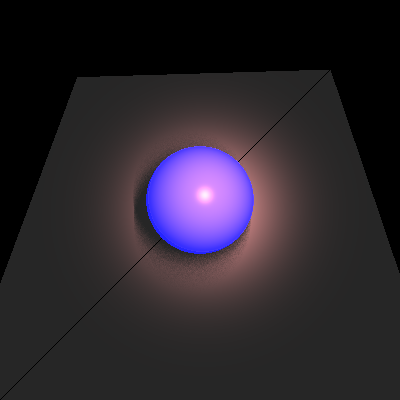
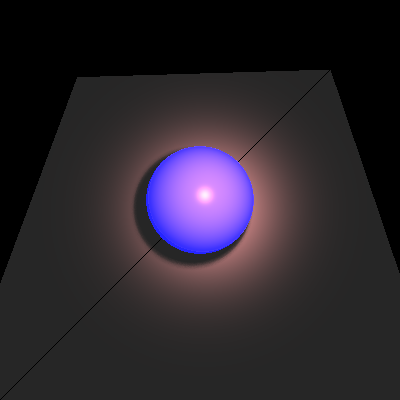
מיני פרויקט שלב  כמעט סופי1

Changed region(s): [[0.39, 0.57, 0.63, 0.69], [0.42, 0.36, 0.48, 0.39]]

diff --git a/src/renderer/ImproveSoftShadowRayTracer.java b/src/renderer/ImproveSoftShadowRayTracer.java
@@ -1,22 +1,28 @@
 package renderer;
 
 import elements.LightSource;
+
 import static geometries.Intersectable.GeoPoint;
+
 import primitives.Point3D;
 import primitives.Ray;
 import primitives.Vector;
 import scene.Scene;
+import elements.*;
+
+import java.time.LocalDateTime;
+import java.util.Random;
 
 import java.util.LinkedList;
 import java.util.List;
 
 import static primitives.Util.alignZero;
 
-public class ImproveSoftShadowRayTracer extends RayTracerBase{
+public class ImproveSoftShadowRayTracer extends RayTracerBase {
     /**
      * the radius size of the target circle through construct the beam of rays
      */
-    private double RADIUS = 10;
+    private double RADIUS = 4;
     /**
      * the distance size between the point and the target circle through construct the beam of rays
      */
@@ -24,9 +30,11 @@ public class ImproveSoftShadowRayTracer extends RayTracerBase{
     /**
      * the amount of rays in the beam
      */
-    private double AMOUNT_OF_RAYS = 50;
+    private double AMOUNT_OF_RAYS = 500;
+    private static Random random = new Random(LocalDateTime.now().getNano());
+
     /**
-     * consructor
+     * constructor
      *
      * @param scene
      */
@@ -66,43 +74,59 @@ public class ImproveSoftShadowRayTracer extends RayTracerBase{
         this.AMOUNT_OF_RAYS = AMOUNT_OF_RAYS;
         return this;
     }
+
+    /**
+     * this function calculate the average transparency of beam of shadow rays
+     *
+     * @param lightSource    the
+     * @param lightDirection
+     * @param n              normal of the point
+     * @param geoPoint
+     * @return average transparency
+     */
     @Override
     protected double transparency(LightSource lightSource, Vector lightDirection, Vector n, GeoPoint geoPoint) {
-        //We'll create the center point of the circle through which construct beam of rays
-        Point3D Pc = geoPoint.point.add(lightDirection.scale(DISTANCE));
-        //Vector lightDirection=l.scale(-1);
-        //create two vectors that orthogonal to refractedVector and they are also orthogonal
+        //if lightSource is DirectionalLight' there is no soft shadow
+        if (lightSource.getClass() == DirectionalLight.class) {
+            return super.transparency(lightSource, lightDirection, n, geoPoint);
+        }
+        //We'll create the center point of the circle through which construct beam of vectors
+        Point3D Pc = geoPoint.point.add(lightDirection.scale(lightSource.getDistance(geoPoint.point)));
+        //create two vectors that orthogonal to lightDirection and they are also orthogonal
+        //these vectors represent the plane of the target circle
         Vector X = new Vector(-lightDirection.getZ(), 0, lightDirection.getX()).normalize();
         Vector Y = X.crossProduct(lightDirection).normalize();
         List<Vector> vectorList = new LinkedList<>();
         vectorList.add(lightDirection);
+        //create beam of vector
         for (int i = 0; i < AMOUNT_OF_RAYS; i++) {
-            double cos = Math.random() * 2 - 1;//value between -1 to 1
+            double cos = random.nextDouble() * 2 - 1;//value between -1 to 1
             double sin = Math.sqrt(1 - cos * cos);
-            double d = Math.random() * 2 * RADIUS - RADIUS;//value between -Radius to Radius
+            double d = random.nextDouble() * 2 * RADIUS - RADIUS;//value between -Radius to Radius
             double x = cos * d;
             double y = sin * d;
+
             Point3D targetPoint = Pc;
             if (alignZero(x) != 0) {
-                targetPoint = Pc.add(X.scale(x));
+                targetPoint = targetPoint.add(X.scale(x));
             }
             if (alignZero(y) != 0) {
-                targetPoint = Pc.add(Y.scale(y));
+                targetPoint = targetPoint.add(Y.scale(y));
             }
-            Vector v =  targetPoint.subtract(geoPoint.point);
-            //check if the new ray is a reflection ray
+            Vector v = targetPoint.subtract(geoPoint.point).normalize();
+            //check if the vector is under the surface we wont add it
             double t = lightDirection.dotProduct(n) * v.dotProduct(n);
-            if (alignZero(t) >0) {
+            if (alignZero(t) > 0) {
                 vectorList.add(v);
             }
         }
 
-
-        double ktr=0;
-        for (Vector v:vectorList) {
-           ktr+= super.transparency(lightSource,v,n,geoPoint);
+        //calculate the average transparency
+        double ktr = 0;
+        for (Vector v : vectorList) {
+            ktr += super.transparency(lightSource, v, n, geoPoint);
         }
-        return ktr/vectorList.size();
+        return ktr / vectorList.size();
     }
 
 }

diff --git a/tests/renderer/ImproveSoftShadowRayTracerTest.java b/tests/renderer/ImproveSoftShadowRayTracerTest.java
@@ -1,0 +1,46 @@
+package renderer;
+
+import elements.Camera;
+import elements.PointLight;
+import elements.SpotLight;
+import geometries.Plane;
+import geometries.Sphere;
+import org.junit.jupiter.api.Test;
+import primitives.Color;
+import primitives.Material;
+import primitives.Point3D;
+import primitives.Vector;
+import scene.Scene;
+
+import static org.junit.jupiter.api.Assertions.*;
+
+class ImproveSoftShadowRayTracerTest {
+    @Test
+    public void SoftShadow(){
+        Scene scene = new Scene("Test scene");
+        Camera camera = new Camera(new Point3D(0, 0, 1000), new Vector(0, 0, -1), new Vector(0, 1, 0)) //
+                .setViewPlaneSize(200, 200).setDistance(1000);
+        scene.geometries.add( //
+                new Sphere(50, new Point3D(30, 0, -150)) //
+                        .setEmission(new Color(100,0,0)) //
+                        .setMaterial(new Material().setkD(0.5).setkR(0.1).setkS(0.4).setnShininess(80)) //
+                ,new Plane( new Point3D(30, -60, -150),new Vector(0,1,0)) //
+                        .setEmission(new Color(20,0,0)) //
+                        .setMaterial(new Material().setkD(0.5).setkR(0.4).setnShininess(80))
+        );
+        scene.lights.add( //
+                new PointLight(new Color(400, 250, 0), new Point3D(-30, 200, 0)) //
+                        .setKl(0.0001).setKq(0.00001));
+        scene.lights.add( //
+                new SpotLight(new Color(400, 250, 0),new Point3D(0,0,50) ,new Vector(30, 0, -150) //
+                ).setKl(0.0005).setKq(0.000005));
+
+        Render render = new Render(). //
+                setImageWriter(new ImageWriter("softShadow", 400, 400)) //
+                .setCamera(camera) //
+                .setRayTracer(new ImproveSoftShadowRayTracer(scene).setRADIUS(100));
+        render.renderImage();
+        render.writeToImage();
+    }
+
+}

diff --git a/tests/renderer/ImprovementPictureTest.java b/tests/renderer/ImprovementPictureTest.java
@@ -215,7 +215,7 @@ scene.lights.add( //
                 ,new Plane( new Point3D(30, -60, -150),new Vector(0,1,0)) //
                         .setEmission(new Color(20,0,0)) //
                         .setMaterial(new Material().setkD(0.5).setnShininess(80)),
-                new Triangle(new Point3D(30,100,0),new Point3D(-30,-40,0),new Point3D(90,-40,0))
+                new Triangle(new Point3D(30,100,200),new Point3D(-30,-40,200),new Point3D(90,-40,200))
                         .setEmission(new Color(20,20,20)) //
                         .setMaterial(new Material().setkD(0.3).setkS(0.3).setkT(0.4).setnShininess(80))
         );
@@ -227,9 +227,9 @@ scene.lights.add( //
                 ).setKl(0.0005).setKq(0.000005));
 
         Render render = new Render(). //
-                setImageWriter(new ImageWriter("triangleSphere", 400, 400)) //
+                setImageWriter(new ImageWriter("triangleSphereBl", 400, 400)) //
                 .setCamera(camera) //
-                .setRayTracer(new BasicRayTracer(scene));
+                .setRayTracer(new ImproveGlossyAndBlurryRayTracer(scene));
         render.renderImage();
         render.writeToImage();
     }

diff --git a/src/renderer/ImproveGlossyAndBlurryRayTracer.java b/src/renderer/ImproveGlossyAndBlurryRayTracer.java
@@ -151,14 +151,14 @@ public class ImproveGlossyAndBlurryRayTracer extends RayTracerBase {
             double d = Math.random() * 2 * RADIUS - RADIUS;//value between -Radius to Radius
             double x = cos * d;
             double y = sin * d;
-            Point3D point = Pc;
+            Point3D targetPoint = Pc;
             if (alignZero(x) != 0) {
-                point = Pc.add(X.scale(x));
+                targetPoint = targetPoint.add(X.scale(x));
             }
             if (alignZero(y) != 0) {
-                point = Pc.add(Y.scale(y));
+                targetPoint = targetPoint.add(Y.scale(y));
             }
-            refractedRay = new Ray(deltaPoint, point.subtract(geoPoint.point));
+            refractedRay = new Ray(deltaPoint, targetPoint.subtract(geoPoint.point));
             //check if the new ray is a reflection ray
             double t = ray.getDir().dotProduct(n) * refractedRay.getDir().dotProduct(n);
             if (alignZero(t) > 0) {

diff --git a/tests/renderer/ReflectionRefractionTests.java b/tests/renderer/ReflectionRefractionTests.java
@@ -106,11 +106,11 @@ public class ReflectionRefractionTests {
         scene.lights.add(new SpotLight(new Color(700, 400, 400), new Point3D(60, 50, 0), new Vector(0, 0, -1)) //
                 .setKl(4E-5).setKq(2E-7));
 
-        ImageWriter imageWriter = new ImageWriter("refractionShadow", 600, 600);
+        ImageWriter imageWriter = new ImageWriter("refractionShadow11", 400, 400);
         Render render = new Render() //
                 .setImageWriter(imageWriter) //
                 .setCamera(camera) //
-                .setRayTracer(new BasicRayTracer(scene));
+                .setRayTracer(new ImproveSoftShadowRayTracer(scene));
 
         render.renderImage();
         render.writeToImage();

diff --git a/tests/renderer/ShadowsTests.java b/tests/renderer/ShadowsTests.java
@@ -66,7 +66,7 @@ public class ShadowsTests {
         Render render = new Render() //
                 .setImageWriter(new ImageWriter("shadowTrianglesSphere11", 400, 400)) //
                 .setCamera(camera) //
-                .setRayTracer(new ImproveSoftShadowRayTracer(scene));
+                .setRayTracer(new ImproveSoftShadowRayTracer(scene).setRADIUS(20).setAMOUNT_OF_RAYS(400));
         render.renderImage();
         render.writeToImage();
     }

diff --git a/src/renderer/Render.java b/src/renderer/Render.java
@@ -47,6 +47,9 @@ public class Render {
         int nY = _imageWriter.getNy();
         for (int i = 0; i < nY; i++) {
             for (int j = 0; j < nX; j++) {
+                if(i==100&&j==100) {
+                    System.out.println(i + "-" + j);
+                }
                 System.out.println(i + "-" + j);
                 Ray ray = _camera.constructRayThroughPixel(nX, nY, j, i);
                 Color color = _rayTracer.traceRay(ray);

diff --git a/src/elements/PointLight.java b/src/elements/PointLight.java
@@ -14,6 +14,7 @@ public class PointLight extends Light implements LightSource {
     private double _kq =0d;
 
 
+
     /**
      * chaining methods
      * @param kc
@@ -52,6 +53,9 @@ public class PointLight extends Light implements LightSource {
     public PointLight(Color intensity, Point3D position) {
         super(intensity);
         _position = position;
+    }
+    public Point3D getPosition() {
+        return _position;
     }
 
     /**

diff --git a/src/primitives/Color.java b/src/primitives/Color.java
@@ -69,6 +69,11 @@ public class Color {
         b = other.getBlue();
     }
 
+    @Override
+    public String toString() {
+        return "(" + "r=" + r + ", g=" + g + ", b=" + b + ')';
+    }
+
     /**
      * Color getter - returns the color after converting it into java.awt.Color
      * object During the conversion any component bigger than 255 is set to 255
